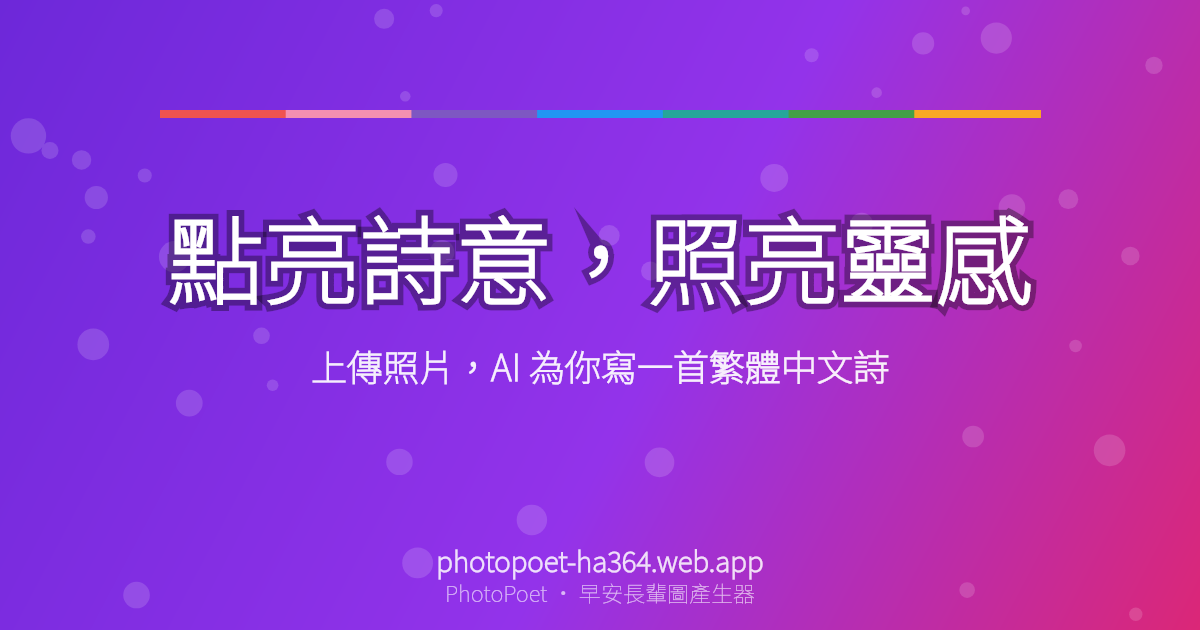
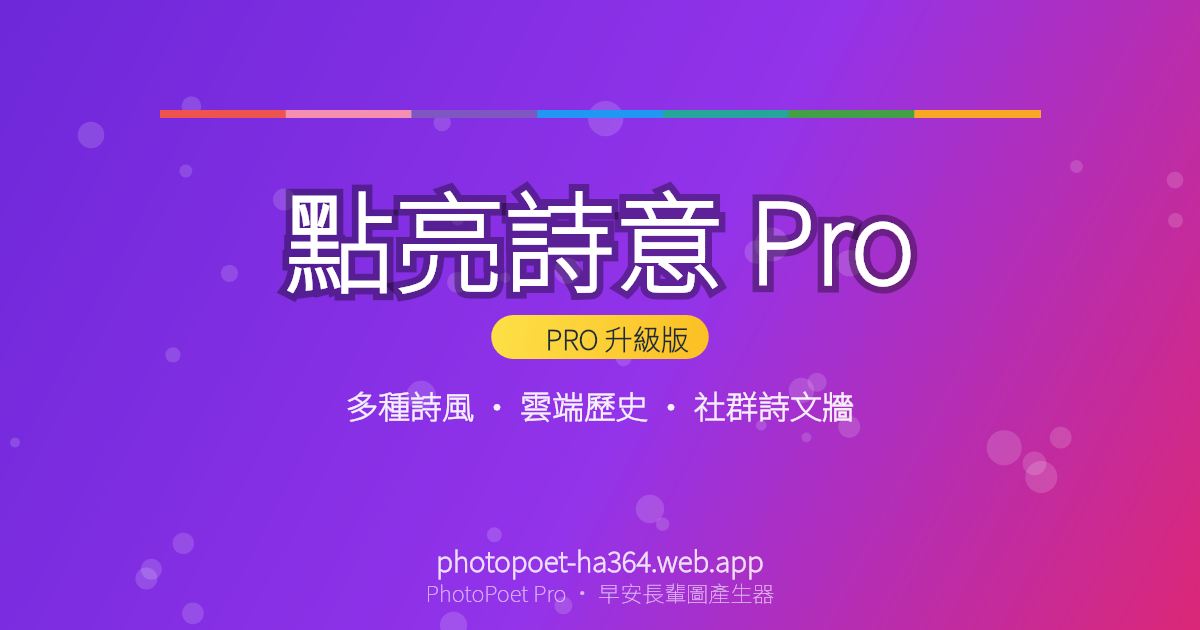
feat: brand bump to "PhotoPoet Pro" — visible everywhere
每個有「PhotoPoet」/「點亮詩意」的標題都升級成 Pro：

UI / 文案：
- src/app/page.tsx Card header h1: 「✨ 點亮詩意 Pro ✨」
  + 新加金色「🚀 PRO · 升級版」徽章在副標題上方
- src/components/UseGuideDialog.tsx 「📖 PhotoPoet Pro 使用指南」
- src/components/SiteFooter.tsx 「© 2026 PhotoPoet Pro · 點亮詩意」

SEO / metadata：
- layout.tsx: title / og:title / twitter:title / siteName / appleWebApp.title
  全部升 Pro
- description 加上 Pro 賣點：「6 種詩風、雲端歷史、社群詩文牆」

PWA / 系統：
- public/manifest.webmanifest: name="PhotoPoet Pro · 點亮詩意",
  short_name="PhotoPoet Pro" — 加桌面後 icon 標籤就是 Pro

OG 預覽圖：
- scripts/generate-og-and-icon.mjs: 主標改「點亮詩意 Pro」（更大字 110px），
  中央加金色漸層膠囊「🚀 PRO 升級版」徽章，副標改「多種詩風 · 雲端歷史 · 社群詩文牆」
  賣點直接秀在 LINE/FB/Twitter 分享卡片上
- subset 字型 USED_TEXT 補入「升級版多種風雲端歷史社群牆」字
  - 11.39 MB → 129.8 KB (151 chars)
- npm run gen:og 重新產生 public/og.png + src/app/icon.png

Docs：
- README.md 主標題加 Pro
- docs/USAGE.md 主標題加 Pro

每個地方都同步，使用者從任何入口（網頁 / FB 預覽 / 加桌面後的 app icon /
分享 OG 卡 / 文件）看到的都是「Pro」。

diff --git a/src/app/layout.tsx b/src/app/layout.tsx
@@ -32,9 +32,9 @@ const OG_IMAGE = `${SITE_URL}/og.png`;
 
 export const metadata: Metadata = {
   metadataBase: new URL(SITE_URL),
-  title: '點亮詩意 · PhotoPoet（早安長輩圖產生器）',
-  description: '上傳照片，AI 為你寫一首繁體中文詩，一鍵產出超實用長輩圖。',
-  applicationName: 'PhotoPoet',
+  title: '點亮詩意 Pro · PhotoPoet Pro（早安長輩圖產生器）',
+  description: '上傳照片，AI 為你寫一首繁體中文詩，一鍵產出超實用長輩圖。Pro 版升級：6 種詩風、雲端歷史、社群詩文牆。',
+  applicationName: 'PhotoPoet Pro',
   authors: [{name: '阿凱老師', url: 'https://github.com/cagoooo'}],
   keywords: ['PhotoPoet', '點亮詩意', '長輩圖', '繁體中文詩', 'Gemini', '早安圖', 'AI 生詩'],
   alternates: {canonical: SITE_URL},
@@ -42,9 +42,9 @@ export const metadata: Metadata = {
     type: 'website',
     locale: 'zh_TW',
     url: SITE_URL,
-    siteName: 'PhotoPoet · 點亮詩意',
-    title: '點亮詩意，照亮靈感',
-    description: '上傳照片，AI 為你寫一首繁體中文詩。',
+    siteName: 'PhotoPoet Pro · 點亮詩意',
+    title: '點亮詩意 Pro · 照亮靈感',
+    description: '上傳照片，AI 為你寫一首繁體中文詩。Pro 版多風格 / 雲端歷史 / 詩文牆。',
     images: [
       {
         url: OG_IMAGE,
@@ -52,14 +52,14 @@ export const metadata: Metadata = {
         width: 1200,
         height: 630,
         type: 'image/png',
-        alt: 'PhotoPoet · 點亮詩意，照亮靈感',
+        alt: 'PhotoPoet Pro · 點亮詩意 · 照亮靈感',
       },
     ],
   },
   twitter: {
     card: 'summary_large_image',
-    title: '點亮詩意，照亮靈感',
-    description: '上傳照片，AI 為你寫一首繁體中文詩。',
+    title: '點亮詩意 Pro · 照亮靈感',
+    description: '上傳照片，AI 為你寫一首繁體中文詩。Pro 版多風格 / 雲端歷史 / 詩文牆。',
     images: [OG_IMAGE],
   },
   icons: {
@@ -72,7 +72,7 @@ export const metadata: Metadata = {
   appleWebApp: {
     capable: true,
     statusBarStyle: 'default',
-    title: 'PhotoPoet',
+    title: 'PhotoPoet Pro',
   },
 };
 

diff --git a/src/app/page.tsx b/src/app/page.tsx
@@ -615,8 +615,11 @@ export default function Home() {
             </button>
           </div>
           <h1 className="rainbow-text text-3xl font-extrabold tracking-tight mb-2 drop-shadow-md">
-            ✨ 點亮詩意，照亮靈感 ✨
+            ✨ 點亮詩意 Pro ✨
           </h1>
+          <div className="inline-block rounded-full bg-gradient-to-r from-amber-300 to-yellow-400 text-gray-900 text-[10px] font-bold tracking-wider px-2 py-0.5 mb-2 shadow">
+            🚀 PRO · 升級版
+          </div>
           <CardDescription className="text-md text-gray-200 drop-shadow-md">
             上傳一張照片，<br/>
             讓 AI 為你創作一首繁體中文詩詞，<br/>

diff --git a/src/components/UseGuideDialog.tsx b/src/components/UseGuideDialog.tsx
@@ -45,9 +45,9 @@ export function UseGuideDialog({open, onOpenChange}: UseGuideDialogProps) {
     <Dialog open={open} onOpenChange={(v) => (v ? onOpenChange(true) : handleClose())}>
       <DialogContent className="max-w-lg">
         <DialogHeader>
-          <DialogTitle className="text-xl">📖 PhotoPoet 使用指南</DialogTitle>
+          <DialogTitle className="text-xl">📖 PhotoPoet Pro 使用指南</DialogTitle>
           <DialogDescription>
-            5 個步驟，把照片變成詩文 ✨
+            5 個步驟，把照片變成詩文 ✨（升級版含多風格 / 雲端歷史 / 詩文牆）
           </DialogDescription>
         </DialogHeader>
 

diff --git a/src/components/SiteFooter.tsx b/src/components/SiteFooter.tsx
@@ -51,7 +51,7 @@ export function SiteFooter() {
         <ShareLinkButton />
       </div>
       <div className="mt-1 text-gray-500">
-        © {year} PhotoPoet · 點亮詩意
+        © {year} PhotoPoet Pro · 點亮詩意
         {process.env.NEXT_PUBLIC_BUILD_SHA && (
           <span
             className="ml-2 text-gray-400"

diff --git a/docs/USAGE.md b/docs/USAGE.md
@@ -1,4 +1,4 @@
-# PhotoPoet（點亮詩意 · 早安長輩圖產生器）使用說明
+# PhotoPoet **Pro**（點亮詩意 Pro · 早安長輩圖產生器）使用說明
 
 > 一個用 Gemini 多模態能力，把照片變成繁體中文詩、再合成「長輩圖」的 Web App。
 >

diff --git a/README.md b/README.md
@@ -1,4 +1,4 @@
-# PhotoPoet · 點亮詩意（早安長輩圖產生器）
+# PhotoPoet **Pro** · 點亮詩意（早安長輩圖產生器）
 
 > 上傳照片 → Gemini 2.0 Flash 生成繁體中文詩 → 一鍵下載長輩圖。
 
